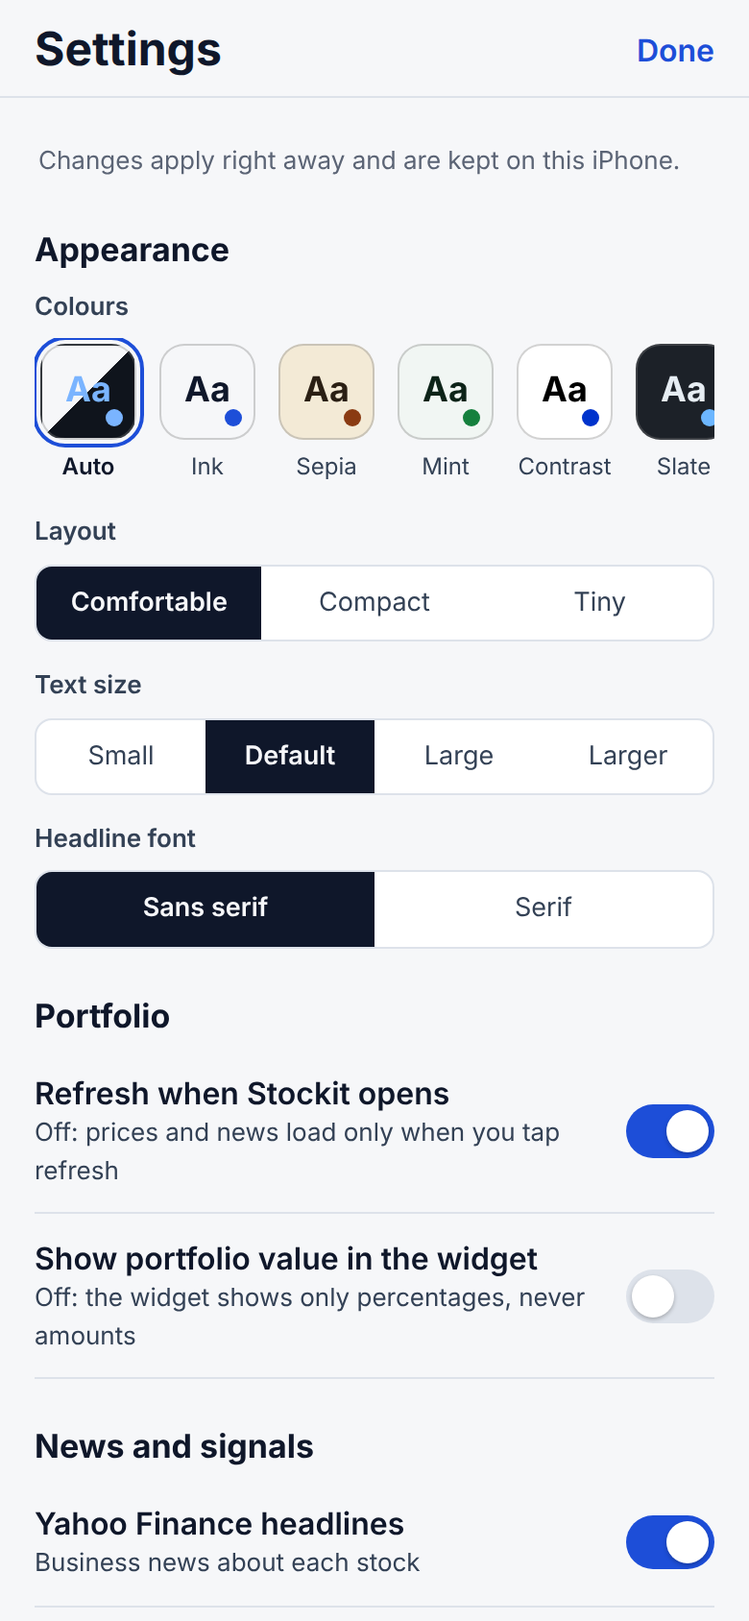
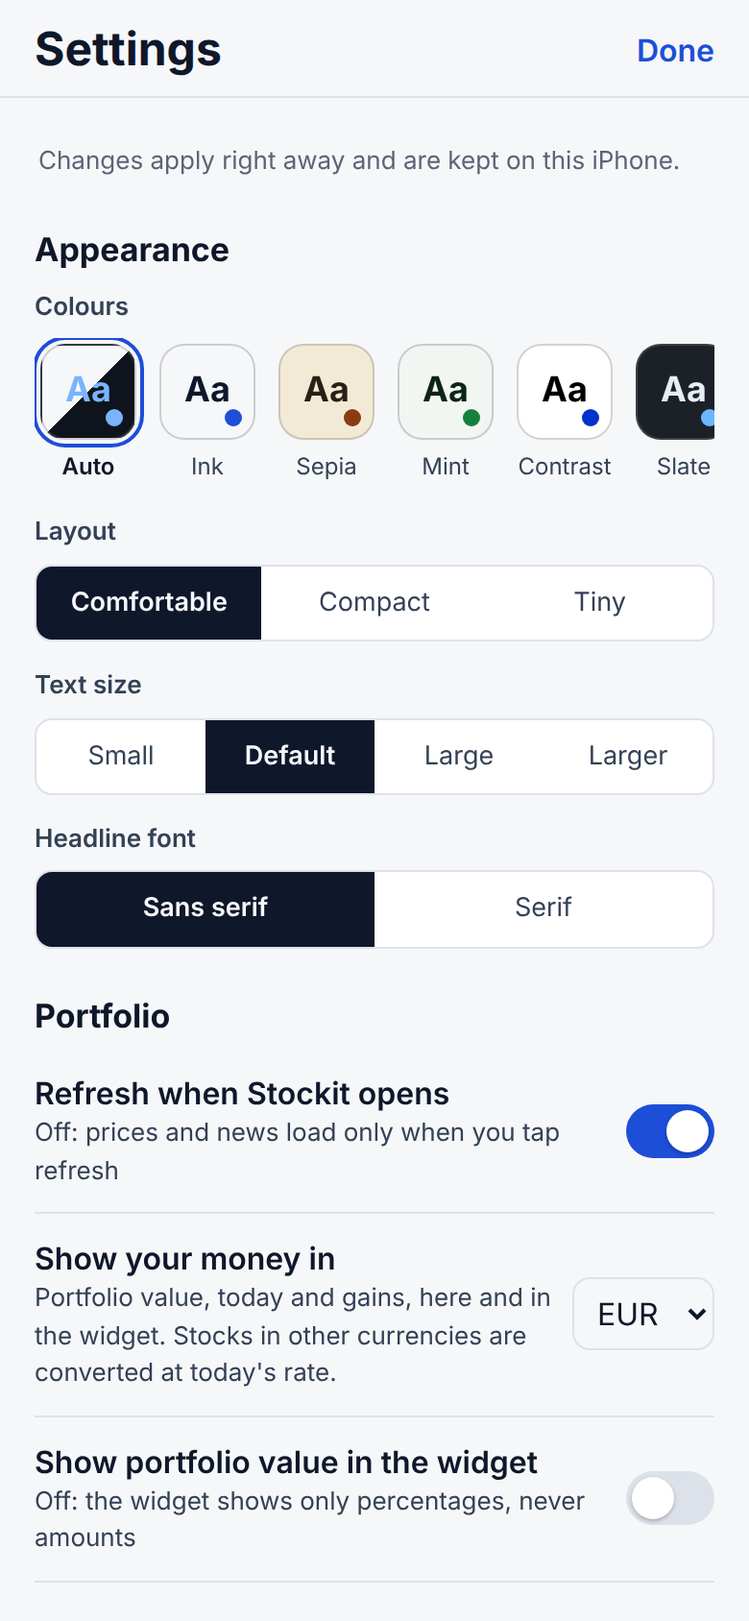
Stockit 1.6.0: all your money in one currency, with exchange rates

Changed region(s): [[0.0308, 0.7701, 0.7692, 0.9858], [0.8308, 0.8934, 0.9538, 0.9858], [0.8, 0.7701, 0.9538, 0.8318]]

diff --git a/Stockit.js b/Stockit.js
@@ -10,6 +10,7 @@
  *  - Prices and a year of history, P/E, market cap, dividend, analyst view, 52-week range, explained in plain words
  *  - Headlines from Yahoo Finance and the web (Google News), plus the crowd's mood from StockTwits
  *  - Flash: each stock's top headlines, a TL;DR of any headline (✦ AI or taken from the article), then the original source
+ *  - All your money in one currency of your choice (euros, dollars, …), in the app and the widget
  *  - Charts from one day to five years; touch to see the price at any moment
  *  - Whether each stock's market is open now, and a Markets tab with every market's opening and closing countdown
  *  - My strategies: your own plans in Ideas, kept or retired, and taken into account by ✦ ideas, briefing and stories
@@ -25,7 +26,7 @@
  */
 
 // This build's version. When releasing, bump it and add a matching entry to releases.json.
-const VERSION = '1.5.0';
+const VERSION = '1.6.0';
 const APP_ID = 'stockit';   // unique per app, never changes
 const REPO_RAW = 'https://raw.githubusercontent.com/gadominas/StockIt/main/';
 const SCRIPT_FILE = 'Stockit.js';   // the script's file name in the repository
@@ -198,14 +199,14 @@ async function load(n, def, waitMs = 10000) {
 // Data files are only written once they were read, so a slow start can never save an empty list over them.
 let dataLoaded = false;
 const write = (n, v) => {
-  if (n === "settings" ? !settingsOk : (["stocks", "market", "insights", "tldrs", "usage", "strategies"].includes(n) && !dataLoaded)) return;
+  if (n === "settings" ? !settingsOk : (["stocks", "market", "insights", "tldrs", "usage", "strategies", "fx"].includes(n) && !dataLoaded)) return;
   fm.writeString(P(n), JSON.stringify(v));
 };
 
 // Defaults first, saved choices on top. Loaded here, before the app and widget branches.
 const settings = Object.assign(
   { tab: "own", sort: "value", range: "1y", addTo: "watch", flashFold: {},    // remembered picks; flashFold: symbol → newest headline time when folded
-    refreshOnOpen: true, widgetMoney: false,                                    // Portfolio
+    refreshOnOpen: true, widgetMoney: false, homeCur: "auto",   // homeCur: the currency your money is shown in (auto: your biggest holdings')                                    // Portfolio
     newsYahoo: true, newsWeb: true, crowd: true,                                // News and signals
     style: "balanced",                                                          // AI advice: cautious, balanced, adventurous
     ai: true, aiProvider: "anthropic",                                          // AI configuration
@@ -223,6 +224,7 @@ let stocks = [];        // [{ s, name, exch, list: "own" | "watch", sh, cost, ad
 let market = {};        // per symbol: price, prev, pts, f (fundamentals), prof, news, crowd
 let insights = { briefing: null, stories: {}, ideas: null };   // AI output, with provider and time
 let tldrs = {};         // TL;DRs and news stories by headline link, newest 150 kept
+let fxRates = {};       // exchange rates to your currency: { "USDEUR": { rate, prev, at } }
 let strategies = [];    // the investor's own plans: [{ id, text, when, status: "active" | "retired", at, retiredAt }]
 async function loadData() {
   loadIssues.length = 0;
@@ -232,6 +234,7 @@ async function loadData() {
   insights.stories = insights.stories || {};
   tldrs = await load("tldrs", {});
   strategies = await load("strategies", []);
+  fxRates = await load("fx", {});
   usage = await load("usage", usage);
   dataLoaded = loadIssues.length === 0;   // anything missing: show what we have, save nothing over it
 }
@@ -422,6 +425,35 @@ async function loadNews(sym) {
   m.newsAt = Date.now();
 }
 
+// ---------- exchange rates: everything you own in one currency ----------
+const HOME_CURS = ["EUR", "USD", "GBP", "CHF", "SEK", "NOK", "DKK", "PLN", "JPY", "CAD", "AUD", "HKD"];
+function homeCur() {   // your choice, or the currency most of your money is in
+  if (settings.homeCur && settings.homeCur !== "auto") return settings.homeCur;
+  const by = {};
+  for (const x of stocks) { const m = market[x.s]; if (x.list === "own" && x.sh > 0 && m && m.price != null) { const [c, k] = normCur(m.cur); by[c] = (by[c] || 0) + x.sh * m.price / k; } }
+  const top = Object.entries(by).sort((a, b) => b[1] - a[1])[0];
+  return top ? top[0] : (stocks[0] && normCur((market[stocks[0].s] || {}).cur)[0]) || "USD";
+}
+// From a stock's currency to yours: 1 for the same currency, null when the rate isn't known yet. prev: yesterday's rate.
+function fxRate(cur, prev, home = homeCur()) {
+  const [c, k] = normCur(cur);
+  if (c === home) return 1 / k;
+  const r = fxRates[c + home];
+  return r && r.rate ? (prev ? (r.prev || r.rate) : r.rate) / k : null;
+}
+async function loadFx(force = false) {
+  const home = homeCur();
+  const curs = [...new Set(stocks.map(x => normCur((market[x.s] || {}).cur)[0]).filter(c => c && c !== home))];
+  await pool(curs.filter(c => force || !fxRates[c + home] || Date.now() - fxRates[c + home].at > 30 * 60e3), 3, async c => {
+    try {
+      const { meta, pts } = await yChart(`${c}${home}=X`, "5d", "1d");
+      const q = priceFrom(meta, pts);
+      if (q.price) fxRates[c + home] = { rate: q.price, prev: q.prev || q.price, at: Date.now() };
+    } catch (e) { console.log(`Rate ${c}→${home}: ${e}`); }
+  });
+  write("fx", fxRates);
+}
+
 // ---------- the crowd's mood: StockTwits posts tagged bullish or bearish ----------
 async function loadCrowd(sym) {
   const m = market[sym];
@@ -465,6 +497,7 @@ async function addStocks(items, list) {
     if (it.sh > 0) { x.sh = it.sh; if (it.cost > 0) x.cost = it.cost; }
     stocks.push(x); res.added.push(r.s);
     try { await loadPrices(r.s); } catch (e) { market[r.s] = Object.assign(market[r.s] || {}, { err: String(e.message || e).slice(0, 80) }); }
+    await loadFx().catch(() => {});   // a new currency's rate (cached ones are skipped)
     loadNews(r.s).catch(() => {});
   });
   if (res.added.length) await loadFundamentals(res.added).catch(() => {});
@@ -528,6 +561,7 @@ async function runRefresh(force = false) {
       }
       call("onProgress", ++done, syms.length);
     });
+    await loadFx(force).catch(e => console.log("Exchange rates: " + e));
     const stale = syms.filter(s => market[s] && (force || !market[s].fAt || Date.now() - market[s].fAt > cfg("fundHours") * 3600e3));
     if (stale.length) await loadFundamentals(stale).catch(e => console.log(String(e)));
     for (const k of Object.keys(market)) if (!syms.includes(k)) delete market[k];
@@ -646,18 +680,21 @@ const STYLE = {
   adventurous: "adventurous: accepts big swings for bigger long-term growth",
 };
 const SIGNALS = ["buy", "hold", "sell"], CONF = ["low", "medium", "high"];
+// What you own, in your currency (Settings › Portfolio). Stocks whose exchange rate isn't known yet are kept apart, in their own currency.
 function totals() {
-  const by = {};
+  const home = homeCur(), by = {};
   for (const x of stocks) {
     const m = market[x.s];
     if (x.list !== "own" || !(x.sh > 0) || !m || m.price == null) continue;
-    const [cur, k] = normCur(m.cur);
-    const t = by[cur] = by[cur] || { cur, value: 0, day: 0, cost: 0, costKnown: true, n: 0 };
-    t.value += x.sh * m.price / k; t.n++;
-    if (m.prev) t.day += x.sh * (m.price - m.prev) / k;
-    if (x.cost > 0) t.cost += x.sh * x.cost / k; else t.costKnown = false;
+    const [cur, k] = normCur(m.cur), r = fxRate(m.cur, false, home), rp = fxRate(m.cur, true, home);
+    const key = r != null ? home : cur, f = r != null ? r : 1 / k, fp = r != null ? rp : 1 / k;
+    const t = by[key] = by[key] || { cur: key, value: 0, day: 0, cost: 0, costKnown: true, n: 0, mixed: false };
+    t.value += x.sh * m.price * f; t.n++;
+    if (r != null && normCur(m.cur)[0] !== home) t.mixed = true;
+    if (m.prev) t.day += x.sh * (m.price * f - m.prev * fp);   // in your currency: the stock's move and the currency's
+    if (x.cost > 0) t.cost += x.sh * x.cost * f; else t.costKnown = false;   // what you paid, at today's rate
   }
-  return Object.values(by).sort((a, b) => b.value - a.value);
+  return Object.values(by).sort((a, b) => (b.cur === home) - (a.cur === home) || b.value - a.value);
 }
 const fx = (v, d = 2) => v == null || !isFinite(v) ? "n/a" : (+v).toFixed(Math.abs(v) >= 1000 ? 0 : d);
 const sx = v => v == null || !isFinite(v) ? "n/a" : (v >= 0 ? "+" : "") + v.toFixed(1) + "%";
@@ -1168,6 +1205,9 @@ function clientState() {
     briefing: insights.briefing ? Object.assign({}, insights.briefing, { stocks: undefined, stale: insights.briefing.sig !== briefingSig() }) : null,
     ideas: insights.ideas,
     strategies,
+    fx: (() => { const home = homeCur(), rates = {};
+      for (const [k, r] of Object.entries(fxRates)) if (k.endsWith(home) && k.length === home.length + 3) rates[k.slice(0, 3)] = { rate: r.rate, prev: r.prev, at: r.at };
+      return { home, choice: settings.homeCur || "auto", rates, curs: HOME_CURS }; })(),
     busy: { briefing: briefingBusy, ideas: ideasBusy, stories: [...storyBusy] },
     ai: {
       provider: settings.aiProvider,
@@ -1259,8 +1299,10 @@ async function handle(m) {
         "speechEngine", "voiceURI", "voiceRate", "voicePitch", "voiceGender", "ttsModel", "ttsVoice", "ttsInstructions"].includes(m.k)) settings[m.k] = m.v;
       if (m.k === "flashFold" && m.v && typeof m.v === "object" && !Array.isArray(m.v))   // folded Flash cards, kept for stocks you follow
         settings.flashFold = Object.fromEntries(Object.entries(m.v).filter(([s, t]) => stocks.some(x => x.s === s) && isFinite(t)));
+      if (m.k === "homeCur" && (m.v === "auto" || HOME_CURS.includes(m.v))) settings.homeCur = m.v;
       write("settings", settings);
-      if (m.k === "widgetMoney") saveWidget(widgetSnapshot());
+      if (m.k === "homeCur") { await loadFx().catch(() => {}); push(); }
+      if (m.k === "widgetMoney" || m.k === "homeCur") saveWidget(widgetSnapshot());
       return;
     case "cfg": {
       if (m.k === "*") settings.cfg = {}; else setCfg(m.k, m.v);
@@ -1530,13 +1572,31 @@ function clientApp() {
   // ---- numbers and time ----
   const nf = (v, d = 2) => v == null || !isFinite(v) ? "—" : (+v).toLocaleString(undefined, { minimumFractionDigits: d, maximumFractionDigits: d });
   const MINOR = { GBp: "p", GBX: "p", ILA: " ag", ZAc: " c" };
-  function money(v, cur, compact) {
+  function money(v, cur, compact, dec) {   // dec: fixed decimals (amounts of money); prices under 1 otherwise get 4
     if (v == null || !isFinite(v)) return "—";
     if (MINOR[cur]) return nf(v, 2) + MINOR[cur];
-    try { return new Intl.NumberFormat(undefined, { style: "currency", currency: cur || "USD", notation: compact ? "compact" : "standard", maximumFractionDigits: compact ? 1 : (Math.abs(v) < 1 ? 4 : 2) }).format(v); }
+    try { return new Intl.NumberFormat(undefined, { style: "currency", currency: cur || "USD", notation: compact ? "compact" : "standard", maximumFractionDigits: compact ? 1 : dec != null ? dec : (Math.abs(v) < 1 ? 4 : 2) }).format(v); }
     catch (e) { return nf(v) + " " + (cur || ""); }
   }
-  const signed = (v, cur) => v == null || !isFinite(v) ? "—" : (v >= 0 ? "+" : "−") + money(Math.abs(v), cur);
+  // Your money in one currency (Settings › Portfolio): rates come with the state; a stock whose rate isn't known yet keeps its own currency.
+  const NORMC = { GBp: ["GBP", 100], GBX: ["GBP", 100], ILA: ["ILS", 100], ZAc: ["ZAR", 100] };
+  const HOME = () => (S.fx && S.fx.home) || "USD";
+  function fxr(cur, prev) {
+    const [c, k] = NORMC[cur] || [cur || "USD", 1];
+    if (c === HOME()) return 1 / k;
+    const r = S.fx && S.fx.rates && S.fx.rates[c];
+    return r && r.rate ? (prev ? (r.prev || r.rate) : r.rate) / k : null;
+  }
+  const inHome = (v, cur) => { const r = fxr(cur); return v == null || r == null ? null : v * r; };
+  const foreign = cur => (NORMC[cur] || [cur || "USD"])[0] !== HOME();
+  const posHome = x => x.list === "own" && x.sh && x.price != null ? inHome(x.sh * x.price, x.cur) : null;
+  const dayHome = x => x.list === "own" && x.sh && x.price != null && x.prev != null && fxr(x.cur) != null ? x.sh * (x.price * fxr(x.cur) - x.prev * fxr(x.cur, true)) : null;
+  const homeMoney = (v, cur, compact, signedV) => {   // in your currency first, the stock's own currency small beside it
+    const h = inHome(v, cur), f = signedV ? signed : money;
+    if (h == null) return f(v, cur, compact);
+    return f(h, HOME(), compact) + (foreign(cur) ? `<small class="orig">${f(v, cur, compact)}</small>` : "");
+  };
+  const signed = (v, cur) => v == null || !isFinite(v) ? "—" : (v >= 0 ? "+" : "−") + money(Math.abs(v), cur, false, 2);
   const pct = (v, d = 2) => v == null || !isFinite(v) ? "—" : (v > 0 ? "+" : v < 0 ? "−" : "") + Math.abs(v).toFixed(d) + "%";
   const bigN = v => v == null || !isFinite(v) ? "—" : v >= 1e12 ? nf(v / 1e12, 2) + "T" : v >= 1e9 ? nf(v / 1e9, 1) + "B" : v >= 1e6 ? nf(v / 1e6, 0) + "M" : nf(v, 0);
   const dayPct = x => x && x.price != null && x.prev ? (x.price / x.prev - 1) * 100 : null;
@@ -1775,7 +1835,7 @@ function clientApp() {
 
   // ---- portfolio and watchlist ----
   function sortRows(items) {
-    const val = x => x.list === "own" && x.sh && x.price != null ? x.sh * x.price : -1;
+    const val = x => x.list === "own" && x.sh && x.price != null ? (posHome(x) != null ? posHome(x) : x.sh * x.price) : -1;
     const rank = { buy: 0, hold: 1, sell: 2 };
     const k = tab === "watch" && sort === "value" ? "today" : sort;
     return items.slice().sort((a, b) =>
@@ -1798,7 +1858,7 @@ function clientApp() {
   }
   function row(x) {
     const d = dayPct(x), c = cls(d);
-    const sub = x.list === "own" && x.sh && x.price != null ? `${nf(x.sh, x.sh % 1 ? 2 : 0)} shares · ${money(x.sh * x.price, x.cur, true)}` : esc(x.name);
+    const ph = posHome(x), sub = x.list === "own" && x.sh && x.price != null ? `${nf(x.sh, x.sh % 1 ? 2 : 0)} shares · ${ph != null ? money(ph, HOME(), true) : money(x.sh * x.price, x.cur, true)}` : esc(x.name);
     const sig = x.sig ? `<div class="r-sig">${sigChip(x.sig)}<span>${esc(x.sig.line)}</span></div>`
       : x.trend ? `<div class="r-sig"><span class="chip ex">${TREND[x.trend.trend]} · no AI</span></div>` : "";
     return `<div class="row" role="button" tabindex="0" data-act="open" data-v="${esc(x.s)}">
@@ -1817,14 +1877,14 @@ function clientApp() {
         <p class="note">Add how many shares you own (open a stock › Edit shares) to see your portfolio's value.</p></section>`;
     }
     const t = T[0], dp = t.value - t.day ? t.day / (t.value - t.day) * 100 : null;
-    const main = items.filter(x => x.sh && x.price != null && (x.cur === t.cur || (x.cur === "GBp" && t.cur === "GBP")));
-    const vals = main.map(x => [x.s, x.sh * x.price / (x.cur === "GBp" ? 100 : 1)]).sort((a, b) => b[1] - a[1]);
+    const vals = items.map(x => [x.s, t.cur === HOME() ? posHome(x) : null]).filter(v => v[1] != null).sort((a, b) => b[1] - a[1]);
     const shown = vals.slice(0, 6), rest = vals.slice(6).reduce((a, b) => a + b[1], 0);
     if (rest > 0) shown.push(["Other", rest]);
-    return `<section class="sum"><span class="sum-k">Portfolio value</span><div class="sum-v">${money(t.value, t.cur)}</div>
+    return `<section class="sum"><span class="sum-k">Portfolio value${t.mixed ? ` in ${esc(t.cur)}` : ""}</span><div class="sum-v">${money(t.value, t.cur)}</div>
       <div class="sum-d ${cls(t.day)}">${signed(t.day, t.cur)} (${pct(dp)}) today</div>
       ${t.costKnown && t.cost ? `<div class="sum-g">${signed(t.value - t.cost, t.cur)} (${pct((t.value / t.cost - 1) * 100)}) since you bought</div>` : ""}
-      ${T.length > 1 ? `<p class="note">Plus ${T.slice(1).map(z => money(z.value, z.cur)).join(" and ")} in other currencies</p>` : ""}
+      ${T.length > 1 ? `<p class="note">Plus ${T.slice(1).map(z => money(z.value, z.cur)).join(" and ")} until their exchange rates load</p>` : ""}
+      ${t.mixed ? `<p class="note">Stocks in other currencies at today's exchange rates. Change the currency in <button class="link small" data-act="cfgopen">Settings › Portfolio</button>.</p>` : ""}
       ${shown.length > 1 ? `<div class="alloc" aria-hidden="true">${shown.map((v, i) => `<i style="flex:${v[1].toFixed(2)};background:color-mix(in srgb, var(--signal) ${Math.max(18, 100 - i * 13)}%, var(--sheet))"></i>`).join("")}</div>
         <div class="alloc-l">${shown.map((v, i) => `<span><i style="background:color-mix(in srgb, var(--signal) ${Math.max(18, 100 - i * 13)}%, var(--sheet))"></i>${esc(v[0])} ${(v[1] / t.value * 100).toFixed(0)}%</span>`).join("")}</div>` : ""}
     </section>`;
@@ -1934,11 +1994,12 @@ function clientApp() {
   function holdingHTML(x) {
     if (x.list !== "own") return "";
     if (!x.sh) return `<section class="hold"><p class="muted">How many shares do you own? Add them to see your value and gain.</p><button class="sm primary" data-act="holding" data-v="${esc(x.s)}">Add shares</button></section>`;
-    const v = x.price != null ? x.sh * x.price : null, g = x.cost && v != null ? v - x.sh * x.cost : null;
+    const v = x.price != null ? x.sh * x.price : null, g = x.cost && v != null ? v - x.sh * x.cost : null, dh = dayHome(x);
     return `<section class="hold"><div class="hold-g">
-      <div><small>Shares</small><b>${nf(x.sh, x.sh % 1 ? 2 : 0)}</b></div><div><small>Value</small><b>${money(v, x.cur)}</b></div>
-      <div><small>Today</small><b class="${cls(dayPct(x))}">${x.prev ? signed(x.sh * (x.price - x.prev), x.cur) : "—"}</b></div>
-      <div><small>Since you bought</small><b class="${cls(g)}">${g != null ? signed(g, x.cur) + " (" + pct((x.price / x.cost - 1) * 100, 1) + ")" : "—"}</b></div></div>
+      <div><small>Shares</small><b>${nf(x.sh, x.sh % 1 ? 2 : 0)}</b></div><div><small>Value</small><b>${homeMoney(v, x.cur)}</b></div>
+      <div><small>Today</small><b class="${cls(dh != null ? dh : dayPct(x))}">${dh != null ? signed(dh, HOME()) + (foreign(x.cur) ? `<small class="orig">${signed(x.sh * (x.price - x.prev), x.cur)}</small>` : "") : x.prev ? signed(x.sh * (x.price - x.prev), x.cur) : "—"}</b></div>
+      <div><small>Since you bought</small><b class="${cls(g)}">${g != null ? homeMoney(g, x.cur, false, true) + " (" + pct((x.price / x.cost - 1) * 100, 1) + ")" : "—"}</b></div></div>
+      ${foreign(x.cur) && fxr(x.cur) != null ? `<p class="note">In ${esc(HOME())} at today's rate; the stock trades in ${esc(x.cur)}.</p>` : ""}
       ${x.cost ? `<p class="note">Average price ${money(x.cost, x.cur)}</p>` : ""}</section>`;
   }
   function signalHTML(x) {
@@ -2067,6 +2128,8 @@ function clientApp() {
       <h3 class="sec">Appearance</h3>${lookHTML()}
       <h3 class="sec">Portfolio</h3>
       ${sw("refreshOnOpen", "Refresh when Stockit opens", "Off: prices and news load only when you tap refresh")}
+      <div class="srow"><div class="grow"><b>Show your money in</b><small class="muted">Portfolio value, today and gains, here and in the widget. Stocks in other currencies are converted at today's rate. ${S.fx && S.fx.choice === "auto" ? `Auto uses the currency most of your money is in (now ${esc(HOME())}).` : ""}</small></div>
+        <select id="homeCur" class="cursel" aria-label="Currency">${[["auto", "Auto"]].concat(((S.fx && S.fx.curs) || []).map(c2 => [c2, c2])).map(([v, l]) => `<option value="${v}" ${(S.fx && S.fx.choice) === v ? "selected" : ""}>${l}</option>`).join("")}</select></div>
       ${sw("widgetMoney", "Show portfolio value in the widget", "Off: the widget shows only percentages, never amounts")}
       <h3 class="sec">News and signals</h3>
       ${sw("newsYahoo", "Yahoo Finance headlines", "Business news about each stock")}
@@ -2161,7 +2224,7 @@ function clientApp() {
   }
   const topNews = x => rankNews(x).slice(0, S.cfg.flashPerStock || 3);
   const flashOrder = () => S.stocks.slice().sort((a, b) => (a.list === "own" ? 0 : 1) - (b.list === "own" ? 0 : 1)
-    || ((b.sh || 0) * (b.price || 0)) - ((a.sh || 0) * (a.price || 0)) || a.s.localeCompare(b.s));
+    || (posHome(b) || 0) - (posHome(a) || 0) || a.s.localeCompare(b.s));
   // A folded card stays folded until a newer headline arrives; then it opens again, marked New.
   const fold = () => S.settings.flashFold || {};
   const newest = x => Math.max(0, ...topNews(x).map(h => h.at || 0));
@@ -2173,10 +2236,10 @@ function clientApp() {
   }
   const ratingWord = r => { const m = String(r || "").match(/^\s*([\d.]+)\s*-\s*(.+)$/); return m ? [m[2].trim(), m[1]] : r ? [String(r), ""] : null; };
   function flashFacts(x) {   // the left column: your position, today's money, Stockit's view, analysts and the crowd
-    const d = dayPct(x), own = x.list === "own" && x.sh, todayMoney = own && x.prev != null && x.price != null ? x.sh * (x.price - x.prev) : null;
+    const d = dayPct(x), own = x.list === "own" && x.sh, dh = own ? dayHome(x) : null, todayMoney = dh != null ? dh : own && x.prev != null && x.price != null ? x.sh * (x.price - x.prev) : null, tmCur = dh != null ? HOME() : x.cur;
     const r = ratingWord(x.f && x.f.rating), c = x.crowd, crowd = c && c.bull + c.bear >= 5 ? Math.round(c.bull / (c.bull + c.bear) * 100) : null;
     return `<span class="pill ${cls(d)}">${pct(d)}</span>
-      ${own ? `<span class="fl-k">${nf(x.sh, x.sh % 1 ? 2 : 0)} share${x.sh === 1 ? "" : "s"}</span><span class="fl-m ${cls(todayMoney)}">${todayMoney != null ? signed(todayMoney, x.cur) + " today" : ""}</span>`
+      ${own ? `<span class="fl-k">${nf(x.sh, x.sh % 1 ? 2 : 0)} share${x.sh === 1 ? "" : "s"}</span><span class="fl-m ${cls(todayMoney)}">${todayMoney != null ? signed(todayMoney, tmCur) + " today" : ""}</span>`
         : x.list !== "own" ? `<span class="fl-k">Watching</span>` : `<span class="fl-k">Shares not set</span>`}
       ${x.sig ? sigChip(x.sig) : x.trend ? `<span class="chip t-${x.trend.trend}">${TREND[x.trend.trend]}</span>` : ""}
       ${r ? `<span class="fl-r" title="Average analyst rating">Analysts <b>${esc(r[0])}</b>${r[1] ? ` <span class="muted">${esc(r[1])}</span>` : ""}</span>` : ""}
@@ -2629,6 +2692,7 @@ function clientApp() {
   // Typed values and menus arrive through "change"
   document.addEventListener("toggle", e => { const el = e.target; if (el.classList && el.classList.contains("fl-story")) { if (el.open) dgOpen.add(el.dataset.k); else dgOpen.delete(el.dataset.k); } }, true);
   document.addEventListener("change", e => {
+    if (e.target.id === "homeCur") { S.fx = Object.assign({}, S.fx, { choice: e.target.value }); send("set", { k: "homeCur", v: e.target.value }); window.toast("Converting to " + (e.target.value === "auto" ? "your main currency" : e.target.value) + "…"); return; }
     if (e.target.classList && e.target.classList.contains("ttsvoicesel")) { S.settings.ttsVoice = e.target.value; send("set", { k: "ttsVoice", v: e.target.value }); return; }
     if (e.target.classList && e.target.classList.contains("ttsmodelsel")) { S.settings.ttsModel = e.target.value; send("set", { k: "ttsModel", v: e.target.value }); renderCfg(); return; }
     if (e.target.classList && e.target.classList.contains("ttsinstr")) { S.settings.ttsInstructions = e.target.value.trim(); send("set", { k: "ttsInstructions", v: S.settings.ttsInstructions }); return; }
@@ -2987,6 +3051,8 @@ html[data-font=serif] .tl-story p{font-family:var(--serif)}
 .tl-listen{display:flex;flex-wrap:wrap;align-items:center;gap:8px;margin:4px 0 18px}
 .primary.block{display:block;width:100%;text-align:center;padding:13px 16px;margin:6px 0 4px}
 .err{color:var(--danger)}
+.cursel{font:16px var(--sans);color:var(--ink);background:var(--paper);border:1px solid var(--rule);border-radius:9px;padding:7px 8px;flex:none}
+.orig{display:block;font-size:calc(12px * var(--ts));font-weight:500;color:var(--muted);margin-top:1px}
 /* Market open or closed */
 .mk{display:inline-flex;align-items:center;gap:5px;font-size:calc(11.5px * var(--ts));font-weight:700;color:var(--muted);white-space:nowrap}
 .mk::before{content:"";width:7px;height:7px;border-radius:50%;background:var(--muted);opacity:.7}

diff --git a/README.md b/README.md
@@ -10,7 +10,7 @@ Your stocks, the news around them and a plain-English story of what's going on.<
 
 An iPhone and iPad app for [Scriptable](https://scriptable.app). One file. No account, no server, no subscription.
 
-[![Version](https://img.shields.io/badge/version-1.5.0-1d4ed8)](CHANGELOG.md)
+[![Version](https://img.shields.io/badge/version-1.6.0-1d4ed8)](CHANGELOG.md)
 [![Platform](https://img.shields.io/badge/iOS-Scriptable-0f172a)](https://apps.apple.com/app/scriptable/id1405459188)
 [![AI](https://img.shields.io/badge/AI-Claude%20or%20OpenAI%2C%20optional-8b5cf6)](#ai-on-your-terms)
 [![Not financial advice](https://img.shields.io/badge/not-financial%20advice-b91c1c)](#not-financial-advice)
@@ -107,7 +107,7 @@ Most stock apps show you a price and a wall of headlines. Stockit is made for a 
 | | |
 |---|---|
 | 💼 **Portfolio and watchlist** | Two tabs: stocks you own, with shares and average price, and stocks you watch. Each row shows the price, today's change, a one-month trend line and Stockit's view. Sort by value, today's move, signal or A–Z. |
-| 💰 **Your money at a glance** | Portfolio value, today's change and the gain since you bought, with the split across your biggest holdings. |
+| 💰 **Your money at a glance** | Portfolio value, today's change and the gain since you bought, with the split across your biggest holdings, all in **one currency you choose** (euros, dollars, pounds and more), whichever markets your stocks trade on. |
 | 📊 **A page per stock** | 1D, 1W, 1M, 6M, 1Y and 5Y chart you can touch to see the price at any moment, whether its market is open, your position (value, today, since you bought), the price trend from the 50- and 200-day averages, and an About section. |
 | 🔢 **Numbers, explained** | P/E, forward P/E, market cap, dividend yield, EPS, beta, analyst target, margins, growth, 52-week range and 1, 6 and 12-month performance. Tap any of them for a plain-words explanation. |
 | 🕒 **Markets** | Every stock shows whether its market is open right now. The Markets tab lists the markets where your stocks trade, then 16 others, each with a countdown to its next open or close, its hours in local and your time, and the trading day's progress. |
@@ -128,6 +128,15 @@ Most stock apps show you a price and a wall of headlines. Stockit is made for a 
 | 🧩 **Built with** | The last section of Settings lists the [shared blueprints](https://github.com/gadominas/app-blueprints) Stockit follows, each linked at the exact version used (see [docs/BLUEPRINTS.md](docs/BLUEPRINTS.md)). |
 | 📲 **Widget** | Today's move for your portfolio and your biggest movers on the Home Screen, in the same frame and colours as the other apps' widgets. |
 | ⬆ **Updates itself** | When a new version is out, Stockit shows its three best features and installs it with one tap. |
+
+## One currency for everything
+
+If you own stocks on several markets, Stockit adds them all up in one currency. Choose it in **Settings › Portfolio › Show your money in**: **Auto** (the currency most of your money is in), EUR, USD, GBP, CHF, SEK, NOK, DKK, PLN, JPY, CAD, AUD or HKD.
+
+- **Portfolio value, today and since you bought** are in that currency, here and in the widget (when **Show portfolio value in the widget** is on).
+- Each stock's page shows its value, today and gain in your currency, with the stock's own currency underneath. Its price stays in the currency it trades in.
+- Exchange rates come from Yahoo Finance with your prices. Today's change includes the currency's own move since yesterday; what you paid is converted at today's rate.
+- London prices quoted in pence are converted to pounds first.
 
 ## Charts you can touch
 
@@ -267,6 +276,7 @@ API usage is billed by Anthropic or OpenAI, separately from any Claude or ChatGP
 | Find new ideas | Open **✦ Ideas** and tap **Find new ideas**; **Add to watchlist** keeps one |
 | Change shares or move a stock | Open the stock › **Manage** › **Edit shares**, **Move to watchlist** or **Remove** |
 | See the price at any moment | Open a stock and touch or drag across its chart; **1D** and **1W** show the day and the week |
+| See everything in euros (or dollars) | **Settings › Portfolio › Show your money in** |
 | See which markets are open | Look for **Open** or **Closed** under each stock, or open **Markets** |
 | Add your own plan | **Ideas › My strategies**, write it, add a timing if you like, tap **Add strategy** |
 | Put a plan aside | **Retire** on the strategy; bring it back from **Retired strategies** |
@@ -332,6 +342,7 @@ Stockit follows five shared blueprints: in-app updates, settings, AI configurati
 | Problem | Try this |
 |---|---|
 | Stockit opens to a blank or loading screen | Close it and open it again. If it keeps happening, open **Settings › Updates › Start-up log** and send what it shows |
+| Some money shows "until their exchange rates load" | That currency's rate hasn't loaded yet. Tap refresh; it's kept for 30 minutes after that |
 | A market shows open on a public holiday | Holidays are known for markets where you hold stocks, after a refresh; other markets follow their regular weekly hours |
 | A stock isn't found | Use its Yahoo Finance ticker, with the exchange suffix outside the US (`ASML.AS`, `VWCE.DE`) |
 | "Updated; couldn't load …" | That source didn't answer. Tap refresh again in a minute; the last loaded data stays on screen |
